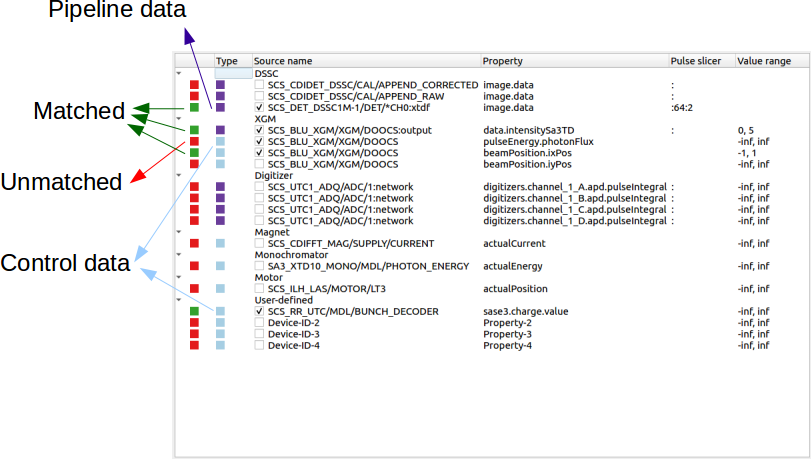
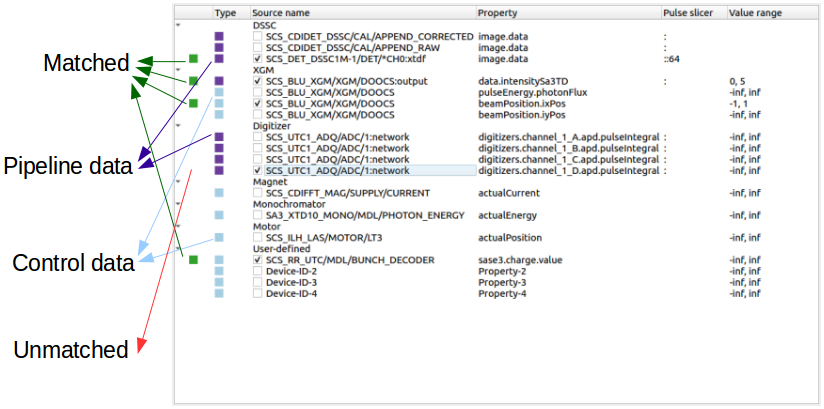
Fix bug in data source tree

diff --git a/extra_foam/gui/ctrl_widgets/tests/test_data_source_widget.py b/extra_foam/gui/ctrl_widgets/tests/test_data_source_widget.py
@@ -212,23 +212,35 @@ class TestDataSourceWidget(unittest.TestCase, _RawDataMixin):
         spy = QtTest.QSignalSpy(model.source_item_toggled_sgn)
         # change device ID
         model.setData(model.index(0, 2, dssc_ctg), 'A+', Qt.EditRole)
-        self.assertEqual(1, len(spy))
-        self.assertTrue(spy[0][0])
-        self.assertTupleEqual(('DSSC', 'A+', '[]', 'a', '[None, None]', '', 1), spy[0][1])
+        self.assertEqual(2, len(spy))
+        # check signal for deleting old source
+        self.assertFalse(spy[0][0])
+        self.assertEqual('A a', spy[0][1])
+        # check signal for adding new source
+        self.assertTrue(spy[1][0])
+        self.assertTupleEqual(('DSSC', 'A+', '[]', 'a', '[None, None]', '', 1), spy[1][1])
 
         spy = QtTest.QSignalSpy(model.source_item_toggled_sgn)
         # change property
         model.setData(model.index(0, 3, dssc_ctg), 'a-', Qt.EditRole)
-        self.assertEqual(1, len(spy))
-        self.assertTrue(spy[0][0])
-        self.assertTupleEqual(('DSSC', 'A+', '[]', 'a-', '[None, None]', '', 1), spy[0][1])
+        self.assertEqual(2, len(spy))
+        # check signal for deleting old source
+        self.assertFalse(spy[0][0])
+        self.assertEqual('A+ a', spy[0][1])
+        # check signal for adding new source
+        self.assertTrue(spy[1][0])
+        self.assertTupleEqual(('DSSC', 'A+', '[]', 'a-', '[None, None]', '', 1), spy[1][1])
 
         spy = QtTest.QSignalSpy(model.source_item_toggled_sgn)
         # change slicer
         model.setData(model.index(0, 4, dssc_ctg), '::2', Qt.EditRole)
-        self.assertEqual(1, len(spy))
-        self.assertTrue(spy[0][0])
-        self.assertTupleEqual(('DSSC', 'A+', '[]', 'a-', '[None, None, 2]', '', 1), spy[0][1])
+        self.assertEqual(2, len(spy))
+        # check signal for deleting old source
+        self.assertFalse(spy[0][0])
+        # deleting does not check slicer
+        # check signal for adding new source
+        self.assertTrue(spy[1][0])
+        self.assertTupleEqual(('DSSC', 'A+', '[]', 'a-', '[None, None, 2]', '', 1), spy[1][1])
 
         spy = QtTest.QSignalSpy(model.source_item_toggled_sgn)
         # change a DSSC source
@@ -313,9 +325,13 @@ class TestDataSourceWidget(unittest.TestCase, _RawDataMixin):
         spy = QtTest.QSignalSpy(model.source_item_toggled_sgn)
         # change slicer
         model.setData(model.index(1, 5, xgm_ctg), '-1, 1', Qt.EditRole)
-        self.assertEqual(1, len(spy))
-        self.assertTrue(spy[0][0])
-        self.assertTupleEqual(('XGM', 'XA', '[]', 'flux', '', '(-1.0, 1.0)', 0), spy[0][1])
+        self.assertEqual(2, len(spy))
+        # delete old source
+        self.assertFalse(spy[0][0])
+        # deleting does not check range
+        # add new source
+        self.assertTrue(spy[1][0])
+        self.assertTupleEqual(('XGM', 'XA', '[]', 'flux', '', '(-1.0, 1.0)', 0), spy[1][1])
 
     @patch.dict(config._data, {"PULSE_RESOLVED": False})
     @patch.object(ConfigWrapper, "pipeline_sources", new_callable=PropertyMock)

diff --git a/extra_foam/gui/ctrl_widgets/data_source_widget.py b/extra_foam/gui/ctrl_widgets/data_source_widget.py
@@ -281,13 +281,17 @@ class DataSourceItemModel(QAbstractItemModel):
                                 self.dataChanged.emit(index.sibling(i, 0),
                                                       index.siblingAtRow(i))
                                 self.source_item_toggled_sgn.emit(
-                                    False,
-                                    f'{item_sb.name()} {item_sb.ppt()}')
+                                    False, f'{item_sb.name()} {item_sb.ppt()}')
                                 break
 
                 item.setChecked(value)
             else:  # role == Qt.EditRole
+                old_src_name = item.name()
+                old_ppt = item.ppt()
                 item.setData(value, index.column())
+                # remove registered item with the old device ID and property
+                self.source_item_toggled_sgn.emit(
+                    False, f'{old_src_name} {old_ppt}')
 
             main_det = config["DETECTOR"]
             ctg = item.parent().name()
